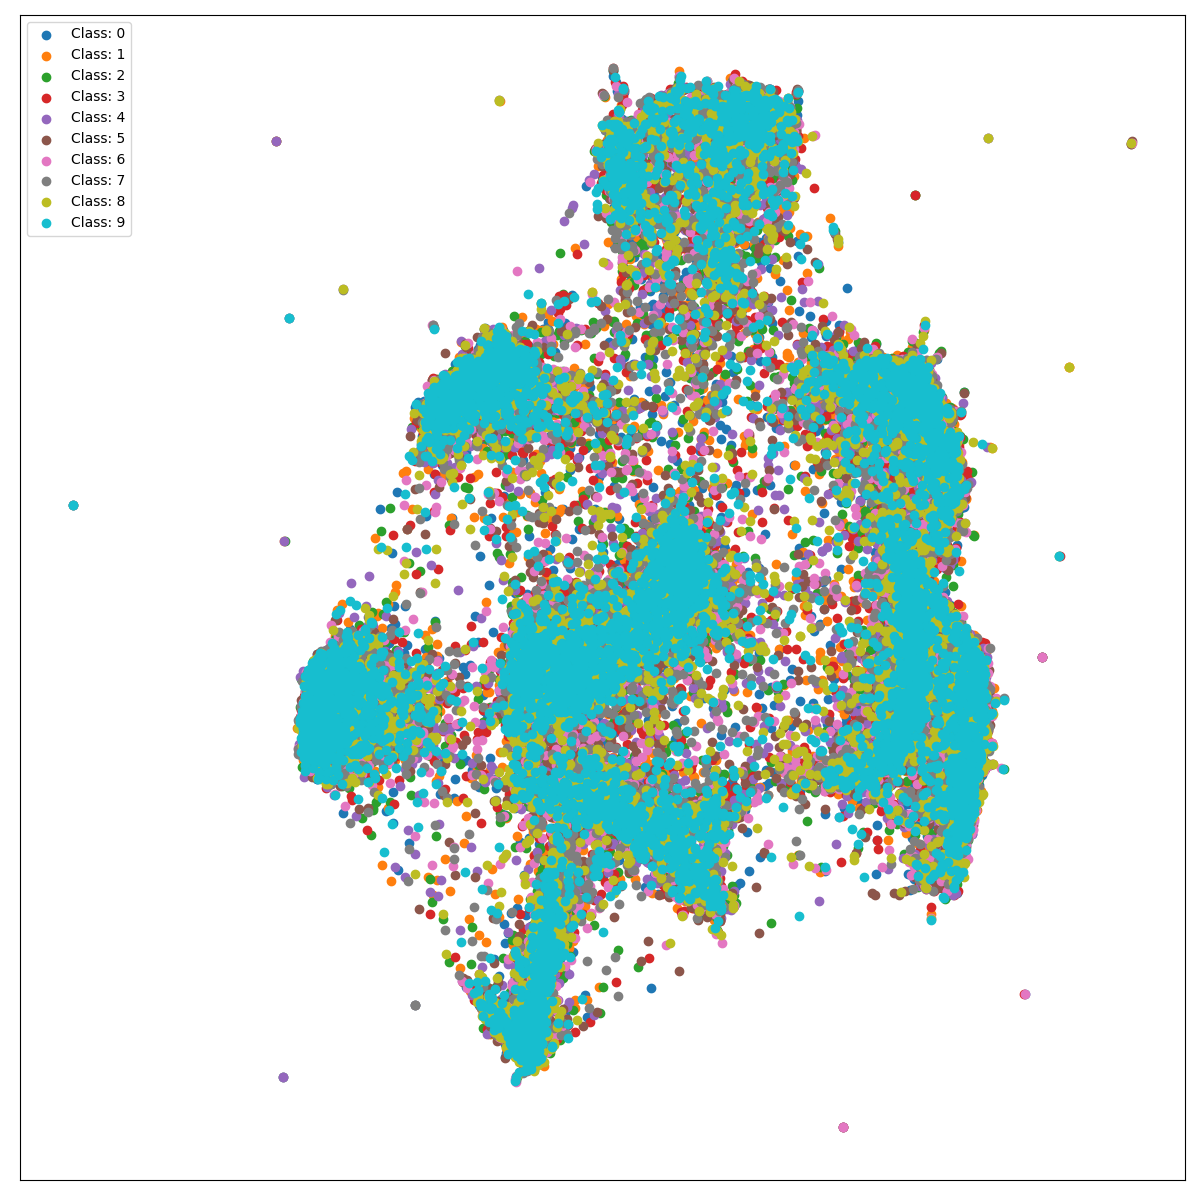
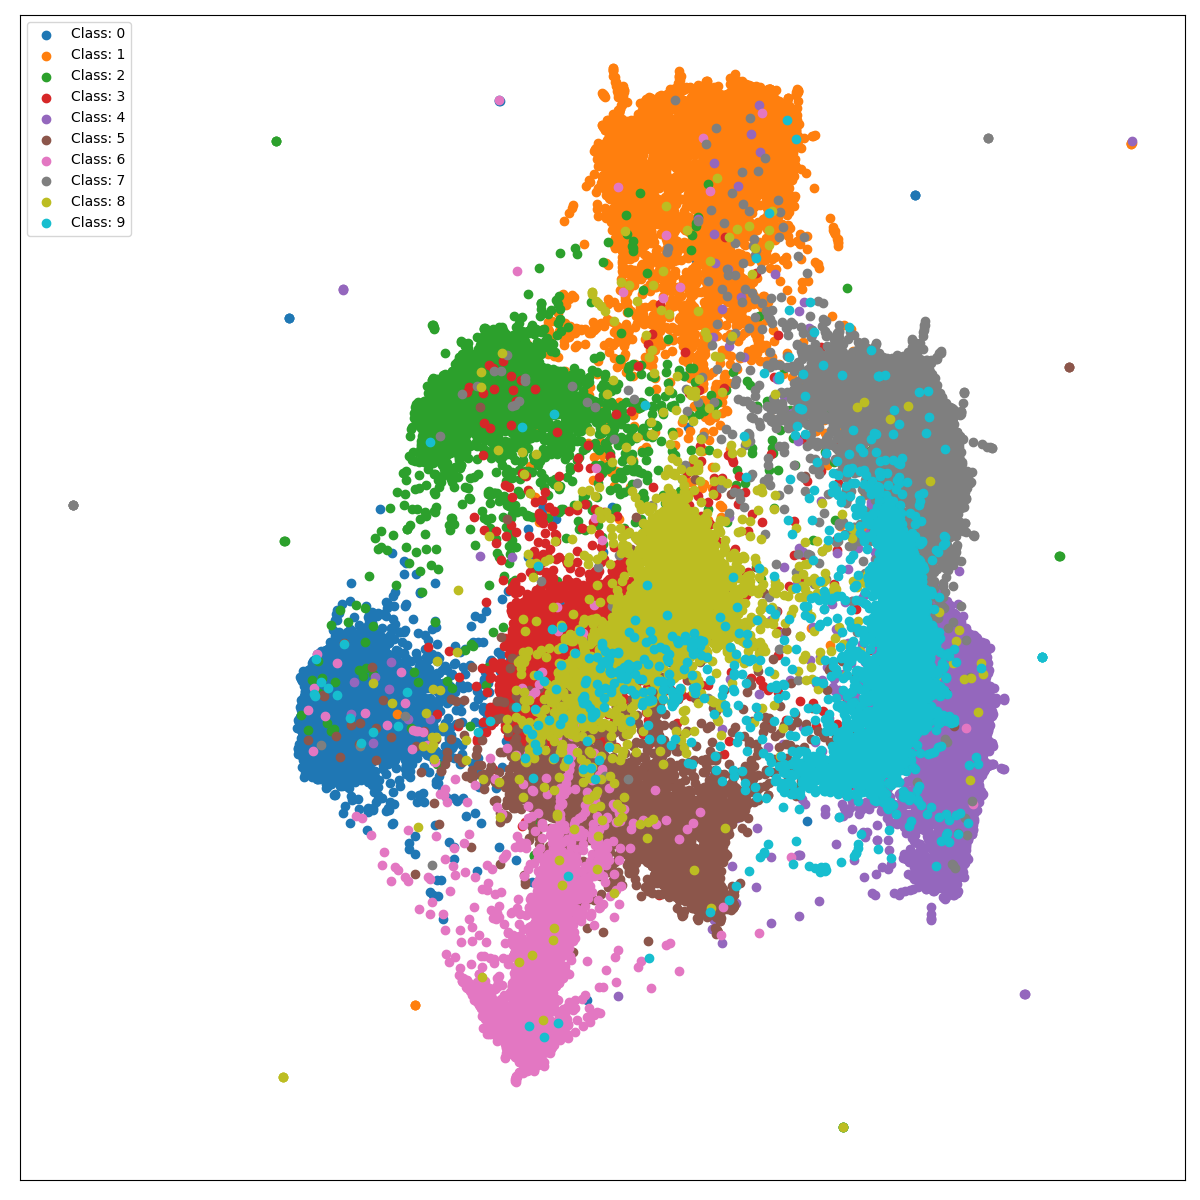
FIX: IVHD embedding labeling (#7)

Changed region(s): [[0.2467, 0.0617, 0.8325, 0.8942]]

diff --git a/bin/main.py b/bin/main.py
@@ -30,17 +30,17 @@ if __name__ == '__main__':
         for method, method_name in zip(methods, method_names):
             print(f"{method_name} embedding...")
             time_metric.start_measurement()
-            output = method.embed(values, labels, dataset_name)
+            output, new_labels = method.embed(values, labels, dataset_name)
 
             # add results to metrics
             time_metric.stop_measurement(method_name)
             local_metric.calculate_knn_gain_and_dr_quality(
                 X_lds=output,
                 X_hds=values,
-                labels=labels,
+                labels=new_labels,
                 method_name=method_name
             )
-            cluster_metric.calculate_cluster_score(output, labels, method_name)
+            cluster_metric.calculate_cluster_score(output, new_labels, method_name)
             # spearman_metric.calculate_score(output, method_name)
 
         # Metrics comparison

diff --git a/bin/data_embedding/ivhd.py b/bin/data_embedding/ivhd.py
@@ -35,7 +35,7 @@ graph_names = {
 }
 
 arguments = {
-    "MNIST": '4000 2 1 1 0 0 0.01 force-directed'
+    "MNIST": '4500 2 1 1 0 0 0 force-directed'
 }
 
 input_x = 'input_X.csv'
@@ -53,6 +53,7 @@ def embed(dataset, labels, name):
               f'{core_path}/input/{input_y} {core_path}/graphs/{graph_name} {core_path}/output/{output} {argument}'
     os.system(command)
     res = pd.read_csv(f'{core_path}/output/{output}').iloc[:, :2].to_numpy()
-    utils.save_plot_2d_scatter(res, labels, f"{name}_ivhd.png")
+    new_labels = pd.read_csv(f'{core_path}/output/{output}').iloc[:, 2].to_numpy()
+    utils.save_plot_2d_scatter(res, new_labels, f"{name}_ivhd.png")
 
-    return res
+    return res, new_labels

diff --git a/bin/data_embedding/tsne.py b/bin/data_embedding/tsne.py
@@ -6,4 +6,4 @@ def embed(dataset, labels, name):
     output = TSNE(n_components=2, metric='euclidean', perplexity=30).fit_transform(dataset)
     utils.save_plot_2d_scatter(output, labels, f"{name}_tsne.png")
 
-    return output
+    return output, labels

diff --git a/bin/data_embedding/largevis.py b/bin/data_embedding/largevis.py
@@ -29,4 +29,4 @@ def embed(dataset, labels, name):
     output = read_txt('output.txt').to_numpy()
     utils.save_plot_2d_scatter(output, labels, f"{name}_largevis.png")
 
-    return output
+    return output, labels

diff --git a/bin/data_embedding/umap.py b/bin/data_embedding/umap.py
@@ -6,4 +6,4 @@ def embed(dataset, labels, name):
     output = umap.UMAP().fit_transform(dataset)
     utils.save_plot_2d_scatter(output, labels, f"{name}_umap.png")
 
-    return output
+    return output, labels
